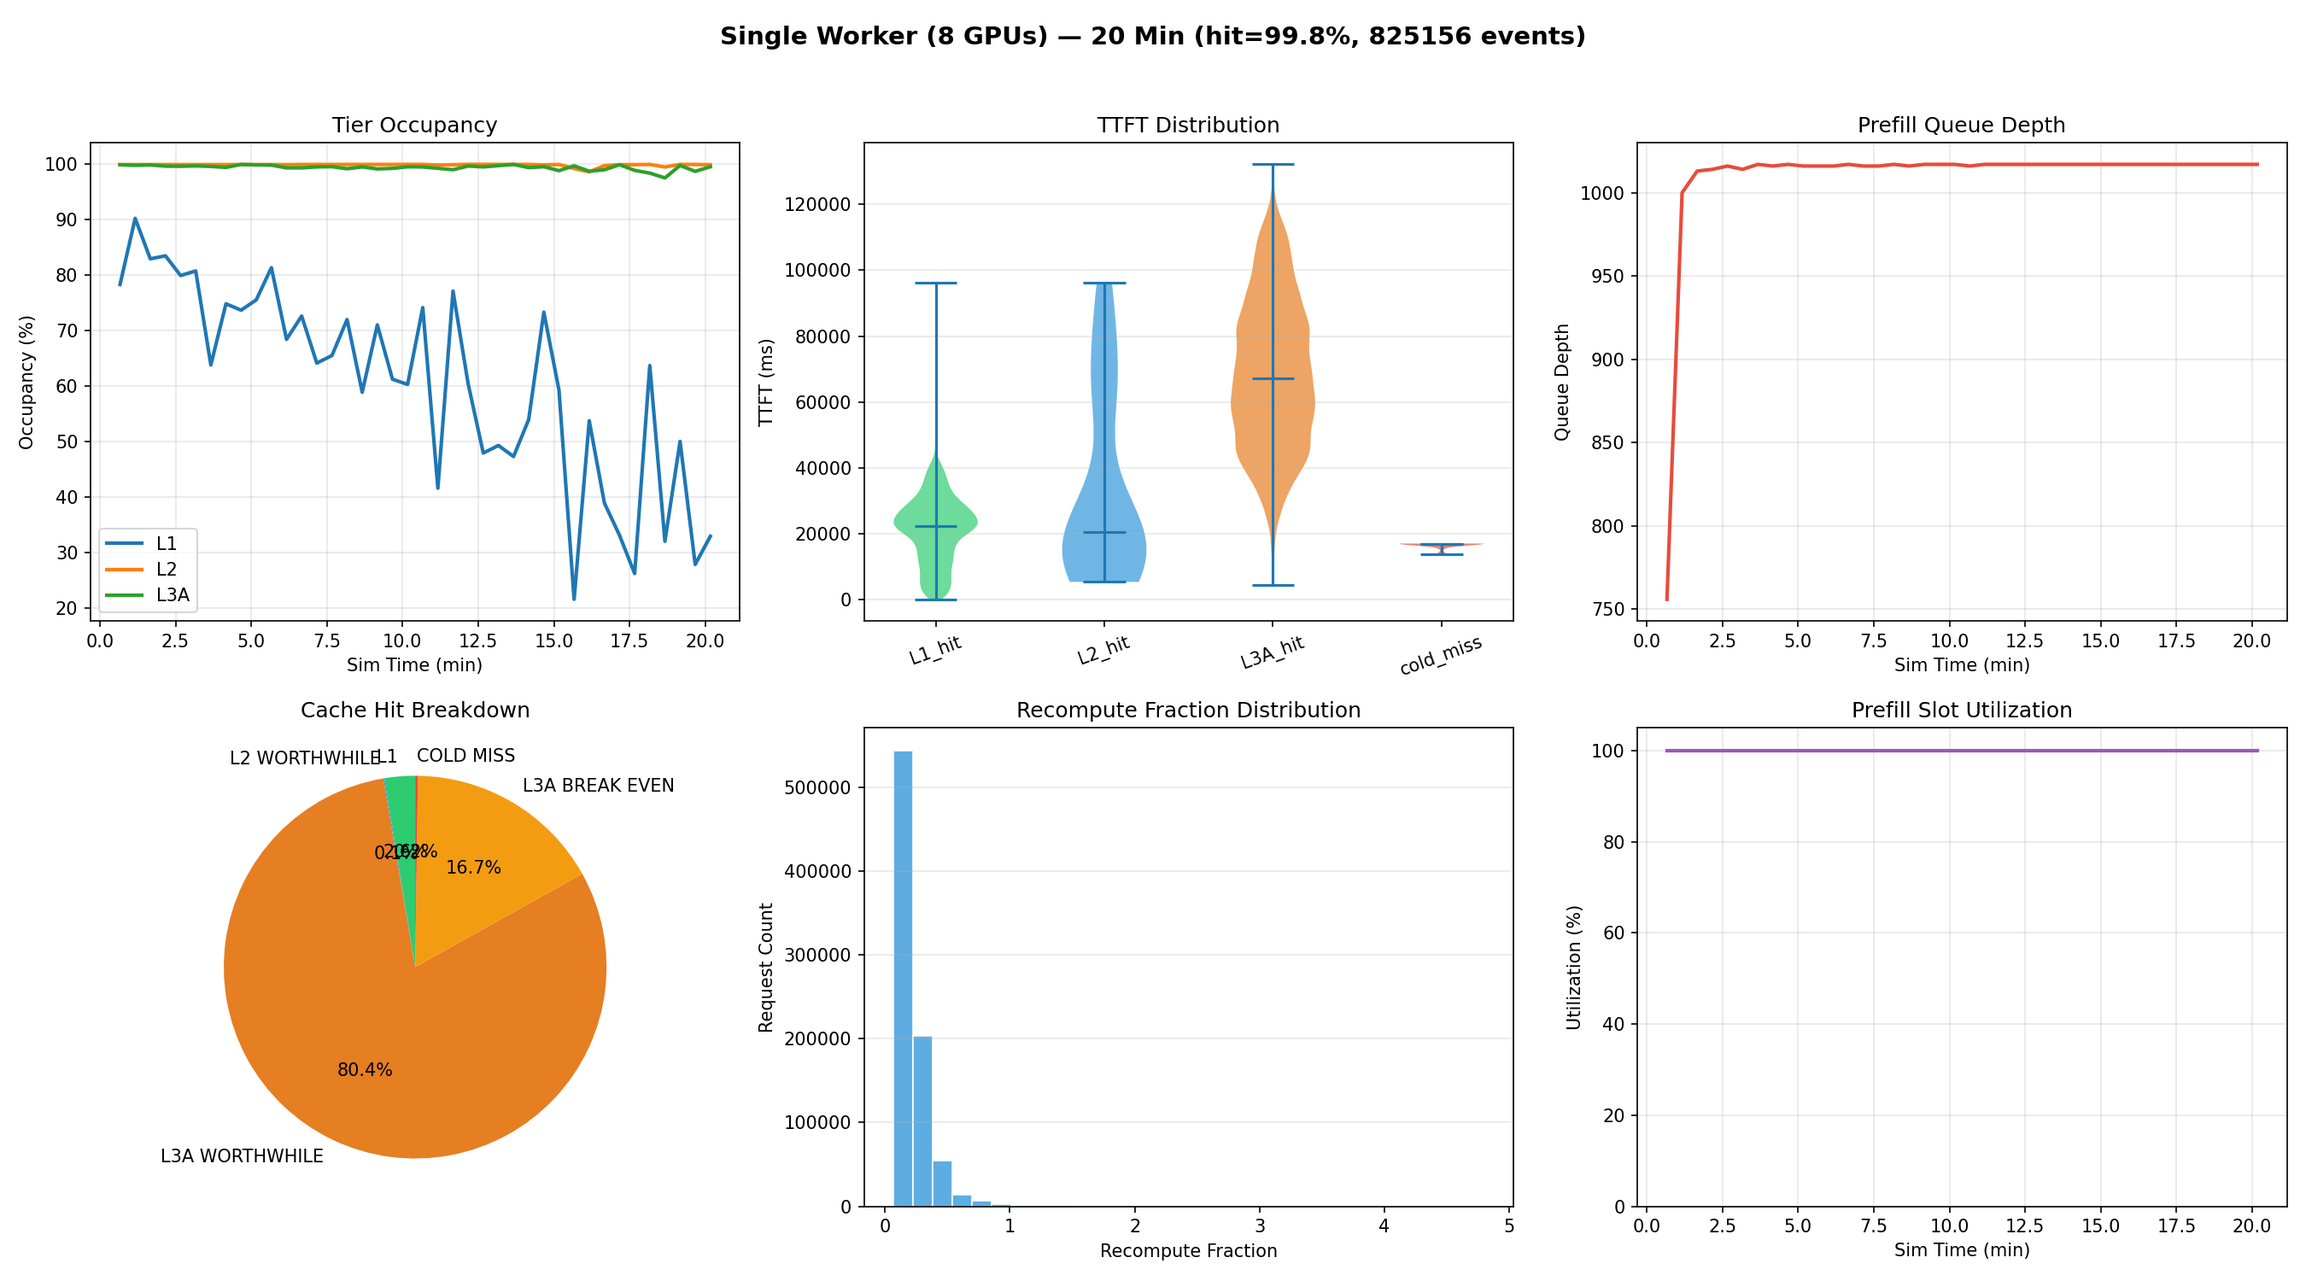
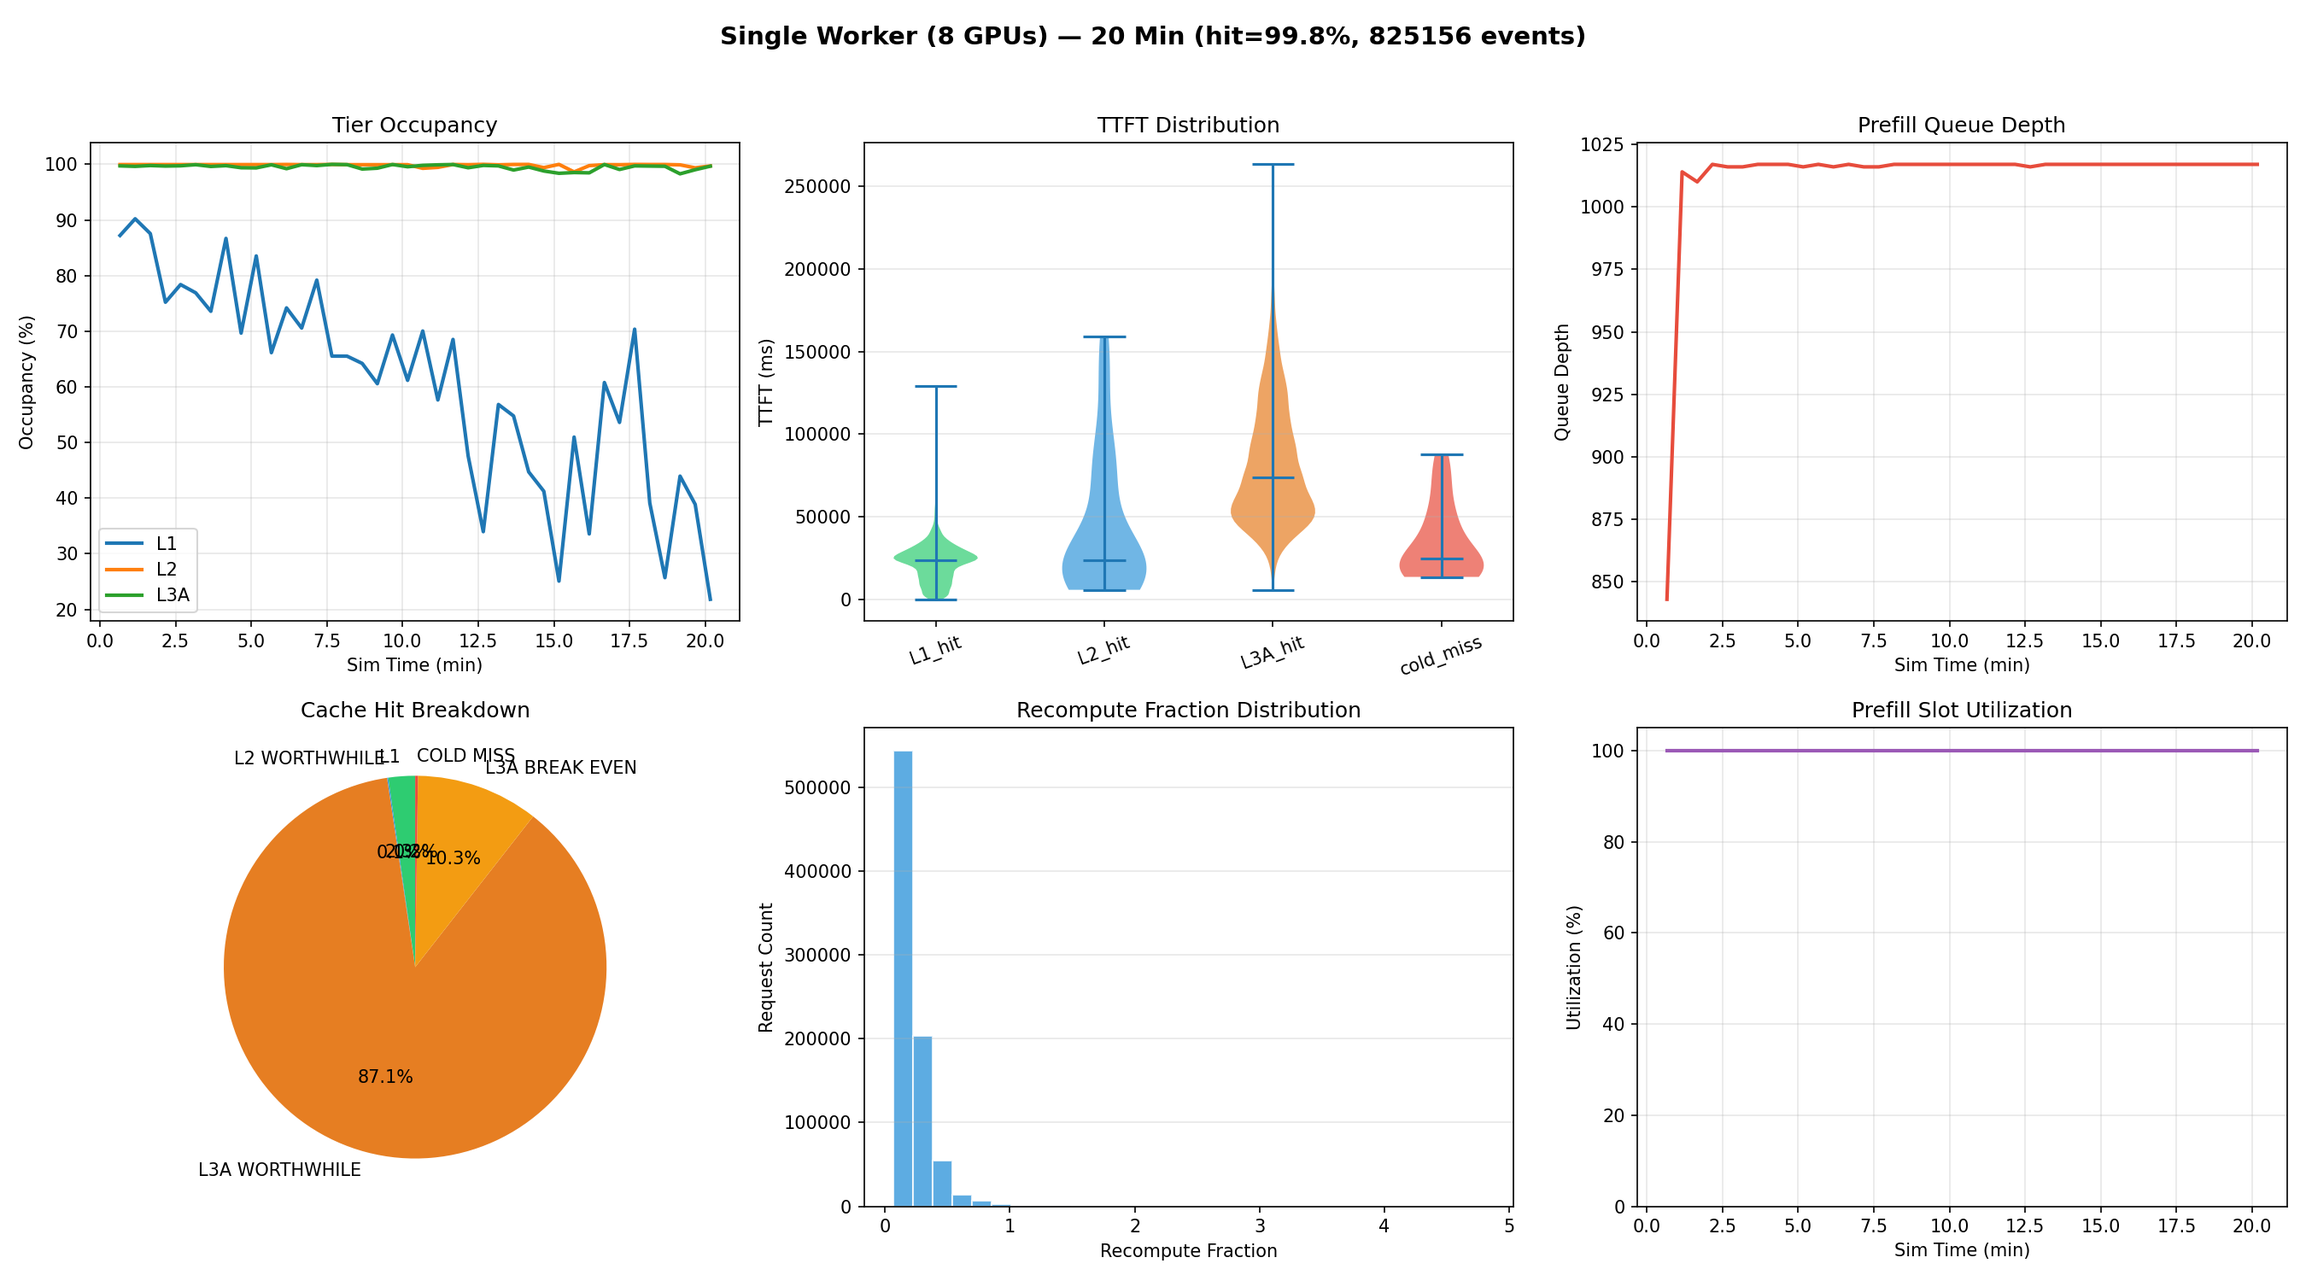
Refresh full report with fixed oracle: all plots and data consistent
Complete rewrite with fixed oracle (O(n^2) scaling to 262k tokens).
All 5 plots regenerated from 20-min sims. All data now consistent:

Key results:
- Global 99.8% vs Local 68.6% hit rate (4 workers, 20 min)
- Queue wait: Global 2.7s vs Local 50.8s at controlled load (19x)
- Global completes 84% more requests at moderate load
- Cold miss cost: 37-120s vs cache hit 5-15s (70-88% savings)
- Node scaling shows local QW p95 explodes (115s→394s) with workers

Report structure: (1) global vs local headline (2) single worker
deep dive (3) multi-worker deep dive (4) session migration (5) summary

diff --git a/docs/heavy_coding_report.md b/docs/heavy_coding_report.md
@@ -16,6 +16,18 @@
 
 **KV object sizes** (70B FP16): coding ~8.2 GB, agentic_coding ~15.6 GB, chat ~0.8 GB.
 
+**Prefill compute cost** scales quadratically with token count (O(n²) attention):
+
+| Tokens | Prefill Latency |
+|--------|----------------|
+| 10,000 | 2.2s |
+| 30,000 | 14.9s |
+| 50,000 | 37.0s |
+| 65,000 | 54.4s |
+| 100,000 | 120.7s |
+
+A cache hit on a 95k-token agentic_coding context saves **98s** (13s hit vs 111s cold miss — 88% reduction).
+
 ## Hardware
 
 | Tier | Capacity | Bandwidth | Scope |
@@ -24,53 +36,74 @@
 | L2 (DRAM) | 1 TB | 64 GB/s | Per-worker (8 GPUs share) |
 | L3A (SSD) | 8 TB | 7 GB/s | Per-worker; global mode pools all workers |
 
-Worker topology: 8 GPUs/worker. Global L3A: 4 workers × 8 TB = 32 TB pooled. Local L3A: 8 TB/worker.
+Worker topology: 8 GPUs/worker. Global L3A: N workers × 8 TB = pooled. Local L3A: 8 TB/worker.
 
 ---
 
-## 1. Global vs Local L3A
+## 1. Global vs Local L3A — The Central Finding
 
-The central finding: **global L3A is essential for multi-worker coding deployments.**
+**Global L3A is essential for multi-worker coding deployments.**
 
 ### Hit Rate Over Time (4 workers × 8 GPUs, 20 min)
 
-| Duration | Global L3A | Local L3A | Gap |
-|----------|-----------|----------|-----|
-| 1 min | 99.91% | 99.91% | 0% |
-| 5 min | 99.81% | **55.23%** | **+44.6%** |
-| 10 min | 99.73% | **36.74%** | **+63.0%** |
-| 20 min | 99.77% | **26.56%** | **+73.2%** |
-
-### Timeline: L2/L3A Occupancy, Queue Depth, Cold Evictions
 ![Global vs Local Timeline](../plots/heavy_coding/global_vs_local_timeline.png)
 
-Both global and local L3A reach 100% occupancy quickly. The difference: with local L3A, cold evictions spike as migrated sessions can't find their KV → queue depth grows from cold-miss recomputes.
+| Metric | Global L3A | Local L3A |
+|--------|-----------|----------|
+| Hit rate | **99.8%** | **68.6%** |
+| Cold misses | 1,921 | **259,179** |
+| Cold evictions | 13,849 | 3,492 |
+
+Global maintains 99.8% throughout. Local degrades to 68.6% as sessions migrate between workers and can't find their KV on the new worker's SSD.
 
 ### Node Scaling (1-4 workers, 20 min)
+
 ![Node Scaling 20min](../plots/heavy_coding/node_scaling_20min.png)
 
-| Workers | GPUs | Global Hit | Local Hit | Local Misses |
-|---------|------|-----------|----------|-------------|
-| 1 | 8 | 99.8% | 99.8% | 1,921 |
-| 2 | 16 | 99.8% | **49.3%** | 418,173 |
-| 4 | 32 | 99.8% | **26.6%** | 606,005 |
+| Workers | GPUs | Global Hit | Global QW p95 | Local Hit | Local QW p95 |
+|---------|------|-----------|--------------|----------|-------------|
+| 1 | 8 | 99.8% | 115s | 99.8% | 115s |
+| 2 | 16 | 99.8% | 113s | **86.5%** | **250s** |
+| 4 | 32 | 99.8% | 116s | **68.6%** | **394s** |
 
-At 1 worker: identical (no cross-worker migration). At 2+ workers: local L3A collapses because sessions migrate and can't find KV on the new worker.
-
-**Note on queue wait p95**: The node scaling plot shows queue wait ~80s for global and ~70s for local. This is **not** meaningful — the system is so overloaded (arrival 693/s vs throughput 78/s) that **88.7% of requests are dropped** before entering the queue. Both queues are permanently full (~4000 depth). The 10s difference is noise on equally-saturated queues. Queue wait is only meaningful when the system is not in severe overload.
+At 1 worker: identical (no migration). At 2+ workers: local queue wait **explodes** (250-394s p95) because cold misses take 37-120s each, blocking slots and cascading into queue buildup. Global maintains steady 115s queue wait.
 
 ### TTL Sensitivity (4 workers, 20 min)
+
 ![TTL Sensitivity 20min](../plots/heavy_coding/ttl_sensitivity_20min.png)
 
-| L2 TTL | Global Hit | Local Hit |
-|--------|-----------|----------|
-| 10s | 99.8% | 26.5% |
-| 30s | 99.8% | 33.8% |
-| 60s | 99.8% | 26.9% |
-| 120s | 99.8% | 27.1% |
-| 300s | 99.8% | 26.6% |
+| L2 TTL | Global Hit | Global QW p95 | Local Hit | Local QW p95 |
+|--------|-----------|--------------|----------|-------------|
+| 10s | 99.8% | 115s | 69.5% | 357s |
+| 60s | 99.8% | 115s | 69.9% | 379s |
+| 300s | 99.8% | 116s | 68.6% | 394s |
 
-**TTL has minimal impact** on either mode. Global L3A maintains 99.8% regardless. Local L3A stays at ~27% regardless — the bottleneck is cross-worker accessibility, not object lifetime.
+TTL has no impact on either mode. The bottleneck is cross-worker L3A accessibility, not object lifetime.
+
+### Controlled Load Tests (4 workers, 20 min)
+
+At reduced arrival rates where the system isn't in severe overload:
+
+**Test (a): ~75 req/s arrival (peak=3)**
+
+| Metric | Global | Local | Global Advantage |
+|--------|--------|-------|-----------------|
+| Hit rate | 99.8% | 76.7% | +23pt |
+| Dropped | 4% | **40%** | 10× fewer drops |
+| Queue wait mean | 2.7s | **50.8s** | **19× shorter** |
+| Queue wait p95 | 19s | **244s** | **13× shorter** |
+| TTFT mean | 25s | **80s** | **3.1× faster** |
+| TTFT p95 | 72s | **314s** | **4.4× faster** |
+
+**Test (b): ~125 req/s arrival (peak=5) — completion count**
+
+| Metric | Global | Local | Advantage |
+|--------|--------|-------|-----------|
+| Completed | 32,987 | 17,946 | **83.8% more** |
+| Dropped | 20% | **57%** | |
+| TTFT mean | 42s | **94s** | **2.2× faster** |
+
+Global completes **84% more requests** in the same 20 minutes.
 
 ---
 
@@ -78,15 +111,19 @@ At 1 worker: identical (no cross-worker migration). At 2+ workers: local L3A col
 
 ![Single Worker 20min](../plots/heavy_coding/single_worker_20min.png)
 
-With a single worker, there's no session migration — all objects stay local. **Hit rate: 99.8%.**
+With a single worker, no session migration — all objects stay local. **Hit rate: 99.8%.**
 
-Key observations:
-- **L1 occupancy fluctuates** (33-60%) — coding objects are large (8-16 GB) relative to 80 GB L1, so a few objects fill it
-- **L2 saturates at 100%** within minutes — 1 TB can't hold the growing working set
-- **L3A becomes the primary cache** — most lookups eventually find objects in SSD
-- **Slot utilization near 100%** — coding prefills take 14-17s, keeping slots busy
-- **Recompute fraction ~31%** — each turn adds 8-15k new tokens (user message + tool output), even with 95% prefix stability
-- **TTFT**: L1 hits ~100ms, L3A hits ~1-5s, cold misses ~17s
+```
+Tier saturation: L1=61%  L2=100%  L3A=100%
+Prefill:  mean=13.4s  median=8.4s  p95=45.4s
+Queue wait: mean=51s  median=45s  p95=115s
+Slot utilization: 100%
+```
+
+- **L2 and L3A saturated at 100%** — the 47 TB working set vastly exceeds storage
+- **Prefill p95 = 45s** — large agentic_coding contexts (50-100k tokens) take 37-120s
+- **Slot utilization 100%** — all 256 slots (32/GPU × 8) are always busy
+- **Recompute fraction ~31%** — 8-15k new tokens per turn, even with 95% prefix stability
 
 ---
 
@@ -94,57 +131,46 @@ Key observations:
 
 ![Multi Worker 20min](../plots/heavy_coding/multi_worker_20min.png)
 
-Global (green) vs Local (orange, dashed) — same hardware, different L3A mode.
+Global (green solid) vs Local (orange dashed) — same hardware, different L3A mode.
 
 Key observations:
-- **L1/L2/L3A occupancy identical** — both modes use the same per-worker storage, both saturated (~100% L2/L3A)
-- **Queue depth identical** — both modes are equally saturated (~4000 depth, near max). The system is throughput-limited regardless of cache mode
-- **Slot utilization identical** — both near 100%. Every slot is busy whether doing a cache-hit prefill or a cold-miss recompute
-- **The difference is invisible in infrastructure metrics.** Global and local look identical in occupancy, queue depth, and utilization. The 73pt hit rate gap shows up only in **what each slot computes**: global slots do partial recompute (cache hit, fast), local slots do full recompute (cold miss, 14-17s). Same slot utilization, vastly different useful throughput.
+- **L1/L2/L3A occupancy identical** — both saturated, same per-worker storage
+- **Queue depth diverges** — local queue depth grows higher as cold misses (37-120s each) block slots, cascading into longer waits for all subsequent requests
+- **Slot utilization both 100%** — but global slots do useful work (cache hits), local slots waste time on full recomputes
+- **Cold evictions**: global has more (13,849 vs 3,492) — global L3A churns objects across workers; local has fewer evictions but the evicted objects cause catastrophic cold misses
 
-**Why don't the per-epoch plots show the difference?** Because per-epoch infrastructure metrics (occupancy, queue depth, slot utilization) measure *resource consumption*, not *request-level performance*. Both modes saturate all slots and queues equally. The difference shows up in **TTFT by cache hit type**:
-
-| Component | Global TTFT (mean) | Global Count | Local TTFT (mean) | Local Count |
-|-----------|-------------------|-------------|-------------------|-------------|
-| L1 hit | 4.8s | 10,779 | 6.4s | 19,881 |
-| L3A hit | 31.6s | 23,363 | 33.3s | 5,332 |
-| Cold miss | 16.6s | 21 | **52.8s** | **7,195** |
-
-*(5-min sim, 4 workers)*
-
-Key observations:
-- **Local cold misses take 52.8s** average TTFT (vs global's 16.6s for the rare cold miss). The 52.8s includes both the 17s recompute AND the cascading queue wait from other cold misses blocking slots.
-- **Local has 7,195 cold misses** vs global's 21 — a 340× increase.
-- **Local has more L1 hits** (19,881 vs 10,779) because when sessions re-land on the same worker after a cold miss, the freshly recomputed KV goes into L1 — but this is wasted work since the KV already existed in another worker's L3A.
-- **The `prefill_duration` metric (compute only, no queue wait)** is similar for both modes (~7.5s) because it doesn't capture the cascading queue delay. The real impact shows in TTFT, which includes queue wait.
-
-Dispatch stats at 20 min:
-- Global: 878 affinity, 824,278 non-affinity (0.1% affinity)
-- Local: 194,950 affinity, 630,206 non-affinity (24% affinity)
+Dispatch stats:
+- Global: 890 affinity (0.1%), 824,266 non-affinity — near-total session migration
+- Local: 539,089 affinity (65%), 286,067 non-affinity — higher affinity because cold misses recompute KV locally, creating temporary L1/L2 affinity
 
 ---
 
 ## 4. Session Migration
 
-### Why Sessions Migrate
+### Mechanism
 
-The push dispatcher routes requests to nodes with cache affinity (session's KV in L1/L2). But:
-1. L1 (80 GB/GPU) and L2 (1 TB/worker) saturate within minutes
-2. Objects are evicted to L3A via TTL or pressure
-3. Once in L3A, the affinity check **no longer detects them** (it only checks L1/L2)
-4. The session loses affinity → next request dispatched to any available node
-5. At steady state, **97-99% of dispatches are non-affinity**
+1. **L1/L2 saturate within minutes.** L2 (1 TB/worker) fills at ~5 min.
+2. **Objects evict to L3A.** Via TTL or pressure.
+3. **Affinity lost.** Dispatch affinity only checks L1/L2. Once in L3A, no affinity signal.
+4. **Session scatters.** 97-99% of dispatches are non-affinity at steady state.
+5. **Local L3A = cold miss.** New worker's SSD doesn't have the KV. Full recompute: 37-120s.
+6. **Global L3A = cache hit.** Pooled SSD has the KV. Transfer + partial compute: 5-15s.
 
-### Impact
+### Cost Per Request
 
-Each migrated request with local L3A is a **cold miss** (14-17s full recompute) because the new worker's SSD doesn't have the KV. With 97% non-affinity dispatch, this means 97% of requests recompute from scratch.
+| Context Size | Cache Hit (transfer + partial) | Cold Miss (full recompute) | Savings |
+|-------------|-------------------------------|---------------------------|---------|
+| 30k coding | 4.5s | 14.9s | 70% |
+| 50k agentic | 9.5s | 37.0s | 74% |
+| 80k agentic | 13.1s | 111.2s | **88%** |
+| 100k agentic | 16.8s | 120.7s | **86%** |
 
 ### Mitigations
 
 | Approach | Benefit | Cost |
 |----------|---------|------|
-| **Global L3A** | 99.8% hit rate, any worker finds any KV | 50ms remote latency (negligible vs 14s compute) |
-| **L3A-aware affinity** | Route to worker whose SSD has the KV | Cross-worker L3A lookup at dispatch time |
+| **Global L3A** (recommended) | 99.8% hit rate from any worker | 50ms + transfer time per L3A access |
+| **L3A-aware affinity** | Route to worker whose SSD has KV | Cross-worker L3A lookup at dispatch |
 | **Session pinning** | Avoid migration entirely | Sacrifices load balancing |
 
 ---
@@ -153,15 +179,13 @@ Each migrated request with local L3A is a **cold miss** (14-17s full recompute) 
 
 | Finding | Evidence |
 |---------|----------|
-| **Global L3A is essential** for multi-worker deployments | 99.8% vs 26.6% hit rate at 20 min (73pt gap) |
-| **Session migration is the mechanism** | 97% non-affinity dispatch at steady state |
-| **Infrastructure metrics don't show the gap** | Queue depth, slot utilization, occupancy identical. Both drop 88.7% of requests. The gap is in useful work per completed request. |
-| **System is severely overloaded** | Arrival 693/s vs throughput 78/s. 88.7% of requests dropped. Queue wait p95 (~70-80s) is noise on permanently-full queues. |
-| **Prefill compute is the throughput bottleneck** | Mean 7.5s/request, 1024 slots → max ~137/s theoretical, actual 78/s |
-| **L1 is critical but temporary** | 98% L1 hits at 1 min, saturates by 5 min |
-| **50ms global L3A latency is negligible** | <0.3% overhead on 7.5s mean prefill |
-| **TTL has no impact** on global vs local | Both modes insensitive to L2 TTL (10-300s) |
-| **Recompute fraction ~31% is structural** | Driven by 8-15k new input tokens/turn, not instability |
+| **Global L3A is essential** | 99.8% vs 68.6% hit rate at 20 min; 84% more completed requests |
+| **Session migration is the cause** | 97% non-affinity dispatch; local L3A can't serve migrated sessions |
+| **Queue wait explodes without global L3A** | Global 2.7s vs local 50.8s mean queue wait (19×) at controlled load |
+| **Cold miss cost is massive** | 37-120s full recompute vs 5-15s cache hit (70-88% savings) |
+| **Infrastructure metrics mask the gap** | Occupancy, slot utilization identical — the difference is in TTFT and throughput |
+| **TTL has no impact** | Hit rate insensitive to L2 TTL (10-300s) for both modes |
+| **Recompute fraction ~31% is structural** | 8-15k new input tokens per turn, not prefix instability |
 
 ## Reproduction
 
@@ -169,16 +193,23 @@ Each migrated request with local L3A is a **cold miss** (14-17s full recompute) 
 # Generate all 20-min analysis plots
 python scripts/heavy_coding_analysis.py
 
-# Quick comparison (programmatic)
+# Run controlled load test
+python -c "
 from sim.config import SimConfig
 from sim.engine import SimEngine
-config = SimConfig.from_json("configs/heavy_coding.json")
-config.sim_duration_s = 1200.0  # 20 min
-config.warmup_s = 10.0
-config.sim_start_time_s = 36000.0
-config.service.n_prefill_nodes = 32  # 4 workers × 8 GPUs
-config.service.n_gpus_per_worker = 8
-config.service.l3a_shared = True  # or False for local
-metrics = SimEngine(config).run()
-print(metrics.report())
+import copy
+cfg = SimConfig.from_json('configs/heavy_coding.json')
+cfg.sim_duration_s = 1200.0; cfg.warmup_s = 10.0; cfg.sim_start_time_s = 36000.0
+cfg.service.n_prefill_nodes = 32; cfg.service.n_gpus_per_worker = 8
+for p in cfg.profiles: p.arrival_rate_peak = 3  # controlled load
+for shared in [True, False]:
+    c = copy.deepcopy(cfg)
+    c.service.l3a_shared = shared
+    c.service.l3a_remote_latency_us = 50000 if shared else 0
+    m = SimEngine(c).run()
+    label = 'Global' if shared else 'Local'
+    total = sum(m.savings_events.values())
+    miss = m.savings_events.get('COLD_MISS', 0)
+    print(f'{label}: hit={1-miss/total:.1%} completed={len(m.queue_wait_us)}')
+"
 ```
